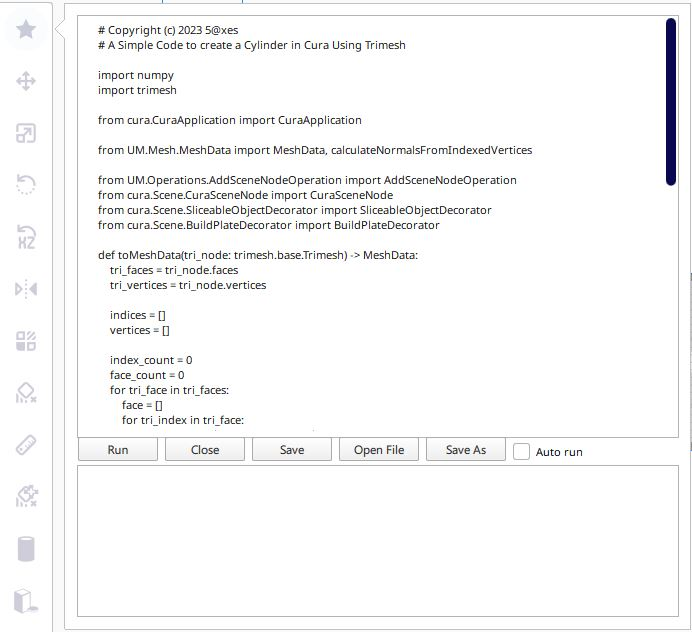
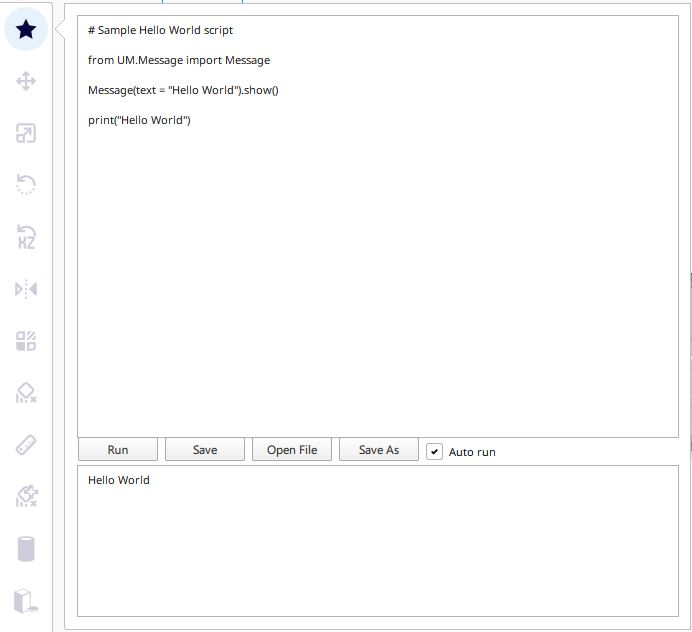
V2.0.4
Init

diff --git a/qml_qt5/LiveScripting.qml b/qml_qt5/LiveScripting.qml
@@ -87,12 +87,6 @@ Item
 			}
 		}
 		Button {
-			text: catalog.i18nc("@label","Close")
-			onClicked: {
-				UM.ActiveTool.triggerAction("closeWindows")
-			}
-		}
-		Button {
 			text: catalog.i18nc("@label","Save")
 			onClicked: {
 				UM.ActiveTool.triggerAction("saveCode")

diff --git a/qml_qt6/LiveScripting.qml b/qml_qt6/LiveScripting.qml
@@ -85,12 +85,6 @@ Item
 			}
 		}
 		Button {
-			text: catalog.i18nc("@label","Close")
-			onClicked: {
-				UM.ActiveTool.triggerAction("closeWindows")
-			}
-		}
-		Button {
 			text: catalog.i18nc("@label","Save")
 			onClicked: {
 				UM.ActiveTool.triggerAction("saveCode")

diff --git a/LiveScripting.py b/LiveScripting.py
@@ -19,6 +19,7 @@ except ImportError:
 	VERSION_QT5 = True
 
 from UM.Tool import Tool
+from UM.Event import Event
 from UM.Logger import Logger
 from UM.Message import Message
 from UM.Scene.Selection import Selection
@@ -86,9 +87,23 @@ class LiveScripting(Tool):
 		Selection.selectionChanged.connect(self._onSelectionChanged)
 		self._controller.activeStageChanged.connect(self._onActiveStageChanged)
 		self._controller.activeToolChanged.connect(self._onActiveToolChanged)
+
+		# self._application.fileLoaded.connect(self._onFileLoaded)
+		self._application.fileCompleted.connect(self._onFileCompleted)
+
 		
 		self._selection_tool = None  # type: Optional[Tool]
-	
+
+	def _onFileLoaded(self) -> None:
+		# Logger.log("d", "_onFileLoaded")
+		if self._auto_run:
+			self.runScript()
+
+	def _onFileCompleted(self) -> None:
+		if self._auto_run:
+			Logger.log("d", "RunScript onFileCompleted")
+			self.runScript()
+
 	# -------------------------------------------------------------------------------------------------------------
 	# Origin of this code for forceToolEnabled Copyright (c) 2022 Aldo Hoeben / fieldOfView ( Source MeasureTool )
 	# def _onSelectionChanged
@@ -160,6 +175,34 @@ class LiveScripting(Tool):
 		self._toolbutton_item = self._findToolbarIcon(main_window.contentItem())
 		self._forceToolEnabled()
 
+	def event(self, event: Event) -> bool:
+		result = super().event(event)
+
+		if not self._tool_enabled:
+			return result
+
+		# overridden from ToolHandle.event(), because we also want to show the handle when there is no selection
+		# disabling the tool oon Event.ToolDeactivateEvent is properly handled in ToolHandle.event()
+		if event.type == Event.ToolActivateEvent:
+			if self._handle:
+				self._handle.setParent(self.getController().getScene().getRoot())
+				self._handle.setEnabled(True)
+
+			self._selection_tool = self._controller._selection_tool
+			self._controller.setSelectionTool(None)
+
+			self._application.callLater(lambda: self._forceToolEnabled(passive=True))
+
+		if event.type == Event.ToolDeactivateEvent:
+			self._controller.setSelectionTool(self._selection_tool or "SelectionTool")
+			self._selection_tool = None
+
+			self._application.callLater(lambda: self._forceToolEnabled(passive=True))
+
+		if self._selection_tool:
+			self._selection_tool.event(event)
+
+		return result
 	# -------------------------------------------------------------------------------------------------------------
 	def _onExitCallback(self)->None:
 		''' Called as Cura is closing to ensure that script were saved before exiting '''
@@ -213,20 +256,15 @@ class LiveScripting(Tool):
 		if str(value) != str(self._script):
 			self._script = str(value)
 			self.propertyChanged.emit()
-			
-			if self._auto_run:
-				self.runScript()
+		#   Remove _auto_run on modification of script text	
+		# 	if self._auto_run:
+		# 		self.runScript()
 
 	def runScript(self):
 		self._trigger = True
 		if self._thread is None:
 			self._thread = threading.Thread(target=self._backgroundJob, daemon=True)
 			self._thread.start()
-
-	def closeWindows(self):
-		if self._controller.getActiveTool() == self:
-			self._controller.setActiveTool(self._getNoneTool())
-		self._forceToolEnabled()
 		
 	def getResult(self) -> str:
 		return self._result

diff --git a/README.md b/README.md
@@ -10,8 +10,6 @@ Cura Live scripting Plugin
 ### Auto run
   Auto execute the Script.
 
-## Close
-  Close The Windows open on a Force Mode.
   
 ## Save
   Save the Script ( Defaut name : live_script.py).
@@ -32,5 +30,10 @@ This menu opens the following folder:
 ## Open File
 
 Open an existing script File.
+
+
+## Closing the Windows
+ 
+Clic again on the Tool Icon to close the plugin Windows. The use of this function is only useful in the case where the selection of another tool is not yet possible (no part to select for example).
 
 
